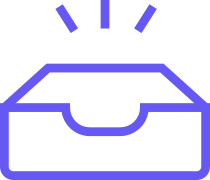
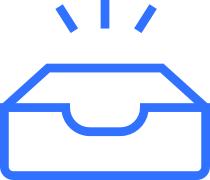
Implementing styles and add images.

diff --git a/lib/src/ui/mentor/mentor_onboarding_page.dart b/lib/src/ui/mentor/mentor_onboarding_page.dart
@@ -1,9 +1,9 @@
 import 'package:back_button_interceptor/back_button_interceptor.dart';
-import 'package:cached_network_image/cached_network_image.dart';
 import 'package:flutter/material.dart';
 import 'package:transformer_page_view/transformer_page_view.dart';
 
 import '../../themes/color_palette.dart';
+import '../../themes/images_gallery.dart';
 import '../../themes/spacing/linear_scale.dart';
 import '../../themes/text/typography/h/h1.dart';
 import '../../themes/text/typography/p/p4.dart';
@@ -147,29 +147,8 @@ class MentorOnboardingPageState extends State<MentorOnboardingPage> {
                     Padding(
                       padding: EdgeInsets.all(space_spring_green),
                       child: Container(
-                        child: CachedNetworkImage(
-                          imageUrl:
-                              "https://ak2.picdn.net/shutterstock/videos/1014004172/thumb/1.jpg",
-                          fit: BoxFit.fitWidth,
-                          height: space_purple_rain,
-                          placeholder: (context, photo) => Container(
-                            width: space_purple_rain,
-                            height: space_purple_rain,
-                            alignment: Alignment.center,
-                            child: Icon(
-                              Icons.image,
-                              size: space_conifer,
-                            ),
-                          ),
-                          errorWidget: (context, photo, error) => Container(
-                            width: space_purple_rain,
-                            height: space_purple_rain,
-                            alignment: Alignment.center,
-                            child: Icon(
-                              Icons.image,
-                              size: space_conifer,
-                            ),
-                          ),
+                        child: Image(
+                          image: AssetImage(imgTutorial1),
                         ),
                       ),
                     ),
@@ -182,29 +161,8 @@ class MentorOnboardingPageState extends State<MentorOnboardingPage> {
                     Padding(
                       padding: EdgeInsets.all(space_spring_green),
                       child: Container(
-                        child: CachedNetworkImage(
-                          imageUrl:
-                              "https://ak2.picdn.net/shutterstock/videos/1014004172/thumb/1.jpg",
-                          fit: BoxFit.fitWidth,
-                          height: space_purple_rain,
-                          placeholder: (context, photo) => Container(
-                            width: space_purple_rain,
-                            height: space_purple_rain,
-                            alignment: Alignment.center,
-                            child: Icon(
-                              Icons.image,
-                              size: space_conifer,
-                            ),
-                          ),
-                          errorWidget: (context, photo, error) => Container(
-                            width: space_purple_rain,
-                            height: space_purple_rain,
-                            alignment: Alignment.center,
-                            child: Icon(
-                              Icons.image,
-                              size: space_conifer,
-                            ),
-                          ),
+                        child: Image(
+                          image: AssetImage(imgTutorial2),
                         ),
                       ),
                     ),
@@ -245,28 +203,12 @@ class MentorOnboardingPageState extends State<MentorOnboardingPage> {
                           Padding(
                             padding: EdgeInsets.all(space_spring_green),
                             child: Container(
-                              child: CachedNetworkImage(
-                                imageUrl:
-                                    "https://ak2.picdn.net/shutterstock/videos/1014004172/thumb/1.jpg",
-                                fit: BoxFit.fitWidth,
-                                placeholder: (context, photo) => Container(
-                                  width: space_purple_rain,
-                                  height: space_purple_rain,
-                                  alignment: Alignment.center,
-                                  child: Icon(
-                                    Icons.image,
-                                    size: space_conifer,
-                                  ),
-                                ),
-                                errorWidget: (context, photo, error) =>
-                                    Container(
-                                  width: space_purple_rain,
-                                  height: space_purple_rain,
-                                  alignment: Alignment.center,
-                                  child: Icon(
-                                    Icons.image,
-                                    size: space_conifer,
-                                  ),
+                              height: Metrics.ph(context, 50),
+                              child: Center(
+                                child: Image(
+                                  image: AssetImage(imgTutorial3),
+                                  fit: BoxFit.fitHeight,
+                                  height: 250,
                                 ),
                               ),
                             ),

diff --git a/lib/src/ui/start/start_page.dart b/lib/src/ui/start/start_page.dart
@@ -1,8 +1,9 @@
 import 'package:flutter/material.dart';
+import '../../themes/text/typography/p/p5.dart';
 
 import '../../shared/app_preferences.dart';
 import '../../shared/locator.dart';
-import '../../themes/color_palette.dart';
+import '../../themes/images_gallery.dart';
 import '../../themes/spacing/linear_scale.dart';
 import '../../themes/text/typography/h/h1.dart';
 import '../../themes/text/typography/p/p1.dart';
@@ -40,10 +41,8 @@ class _StartPageState extends State<StartPage> {
           mainAxisAlignment: MainAxisAlignment.spaceEvenly,
           children: <Widget>[
             Center(
-              child: Icon(
-                Icons.computer,
-                color: purple,
-                size: space_magic_mint,
+              child: Image(
+                image: AssetImage(logo),
               ),
             ),
             Column(
@@ -57,10 +56,10 @@ class _StartPageState extends State<StartPage> {
                 ),
                 Padding(
                   padding: EdgeInsets.only(
-                    left: space_fire_bush,
+                    left: space_spring_green,
                     top: space_golden_dream,
                   ),
-                  child: P1(
+                  child: P5(
                     text:
                         "Bring every status report to a real time platform, shared by mentors and participants during the event.",
                   ),

diff --git a/lib/src/widget/primary_button.dart b/lib/src/widget/primary_button.dart
@@ -18,11 +18,11 @@ class PrimaryButton extends StatelessWidget {
   const PrimaryButton({
     Key key,
     @required this.onPress,
-    this.borderColor = const Color(0xff6558f5),
+    this.borderColor = const Color(0xff3071ff),
     this.label = '',
     this.width = 250.0,
     this.height = 40.0,
-    this.buttonColor = const Color(0xff6558f5),
+    this.buttonColor = const Color(0xff3071ff),
     this.labelColor = Colors.white,
     this.isDisable = "ok",
     this.isLoading = false,

diff --git a/lib/src/themes/color_palette.dart b/lib/src/themes/color_palette.dart
@@ -4,7 +4,7 @@ import '../util/convert.dart';
 
 Color black = Convert.hexToDartColor('#293845');
 Color white = Convert.hexToDartColor('#FFFFFF');
-Color purple = Convert.hexToDartColor('#6558F5');
+Color purple = Convert.hexToDartColor('#3071FF');
 Color lightPurple = Convert.hexToDartColor('#C7C3FA');
 Color grey = Convert.hexToDartColor('#C3CFD9');
 Color lightGrey = Convert.hexToDartColor('#788896');

diff --git a/lib/src/widget/input.dart b/lib/src/widget/input.dart
@@ -11,7 +11,7 @@ class Input extends TextField {
     Function onEditingComplete,
     bool autofocus = false,
     TextInputAction textInputAction = TextInputAction.done,
-    Color borderSideColorOnFocus = const Color(0xff6558f5),
+    Color borderSideColorOnFocus = const Color(0xff3071ff),
     Color borderSideUnFocus = const Color(0xff293845),
   }) : super(
           focusNode: focusNode,

diff --git a/lib/src/widget/secondary_appbar.dart b/lib/src/widget/secondary_appbar.dart
@@ -15,7 +15,7 @@ class SecondaryAppBar extends AppBar {
     Function onClickCustomHeaderLeft,
     Function onClickHeaderRight,
     IconData iconHeaderRight = Icons.refresh,
-    Color iconHeaderRightColor = const Color(0xff6558f5),
+    Color iconHeaderRightColor = const Color(0xff3071ff),
   }) : super(
           iconTheme: IconThemeData(
             color: grey, //change your color here

diff --git a/lib/src/themes/text/typography/p/p5.dart b/lib/src/themes/text/typography/p/p5.dart
@@ -1,0 +1,19 @@
+import 'package:flutter/material.dart';
+
+class P5 extends StatelessWidget {
+  final String text;
+
+  const P5({
+    Key key,
+    @required this.text,
+  }) : super(key: key);
+
+  @override
+  Widget build(BuildContext context) {
+    return Text(
+      text,
+      textAlign: TextAlign.center,
+      style: Theme.of(context).textTheme.body1,
+    );
+  }
+}

diff --git a/lib/src/themes/images_gallery.dart b/lib/src/themes/images_gallery.dart
@@ -1,1 +1,5 @@
 const String imgblank = 'lib/assets/images/blank.png';
+const String imgTutorial1 = 'lib/assets/images/img_tutorial_1.png';
+const String imgTutorial2 = 'lib/assets/images/img_tutorial_2.png';
+const String imgTutorial3 = 'lib/assets/images/img_tutorial_3.png';
+const String logo = 'lib/assets/images/logo.png';

diff --git a/lib/src/widget/secondary_button.dart b/lib/src/widget/secondary_button.dart
@@ -19,7 +19,7 @@ class SecondaryButton extends StatelessWidget {
     this.width = 250.0,
     this.height = 40.0,
     this.buttonColor = Colors.white,
-    this.labelColor = const Color(0xff6558f5),
+    this.labelColor = const Color(0xff3071ff),
   }) : super(key: key);
 
   @override
